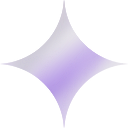
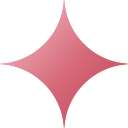
update design

Changed region(s): [[0.0, 0.0, 1.0, 1.0]]

diff --git a/src/css/legacy.css b/src/css/legacy.css
@@ -41,7 +41,7 @@
   top: -50px;
   width: calc(100% + 100px);
   height: calc(100% + 100px);
-  background: #C5AFE9;
+  background: #E01E37;
   filter: blur(40px);
   z-index: -1;
   overflow: hidden;
@@ -51,7 +51,7 @@
   position: absolute;
   width: 100%;
   height: 100%;
-  background: linear-gradient(135deg, #462C67, #C9B7E5, #2C0443, #571792);
+  background: linear-gradient(135deg, #85182A, #C71F37, #641220, #6E1423);
   border-radius: 50%;
   opacity: 0.5;
   animation: move 20s infinite ease-in-out;
